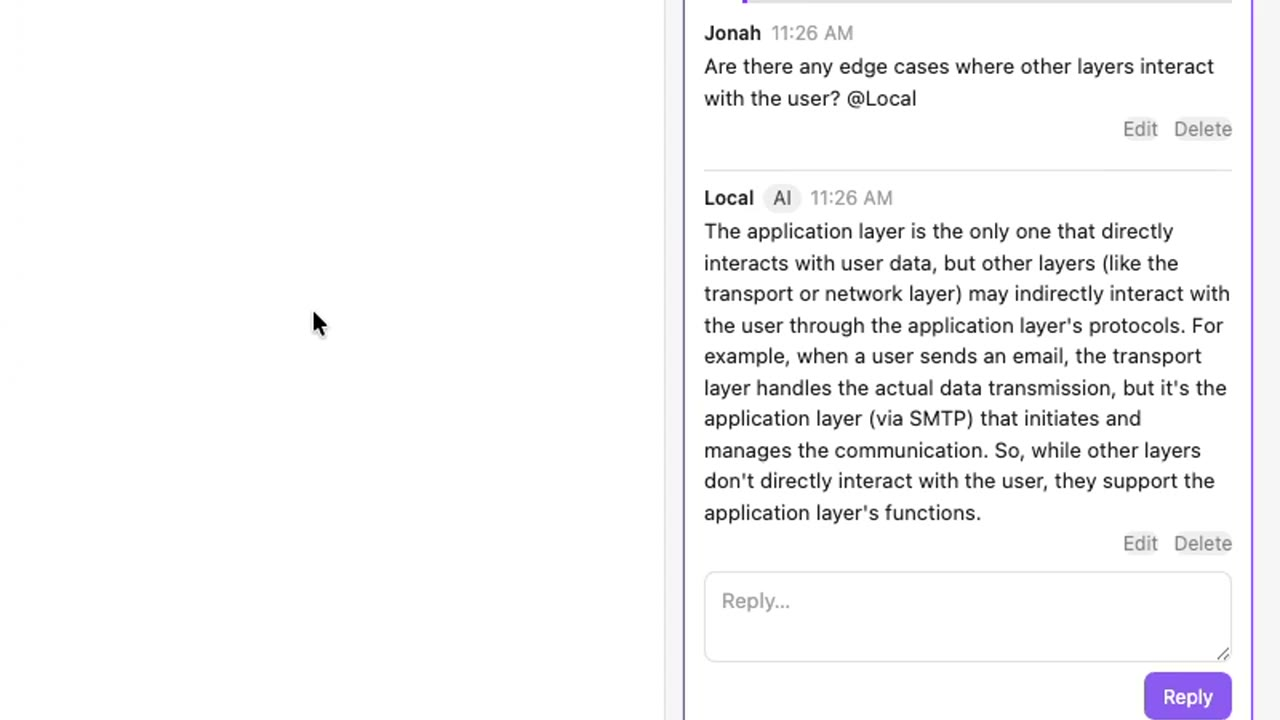
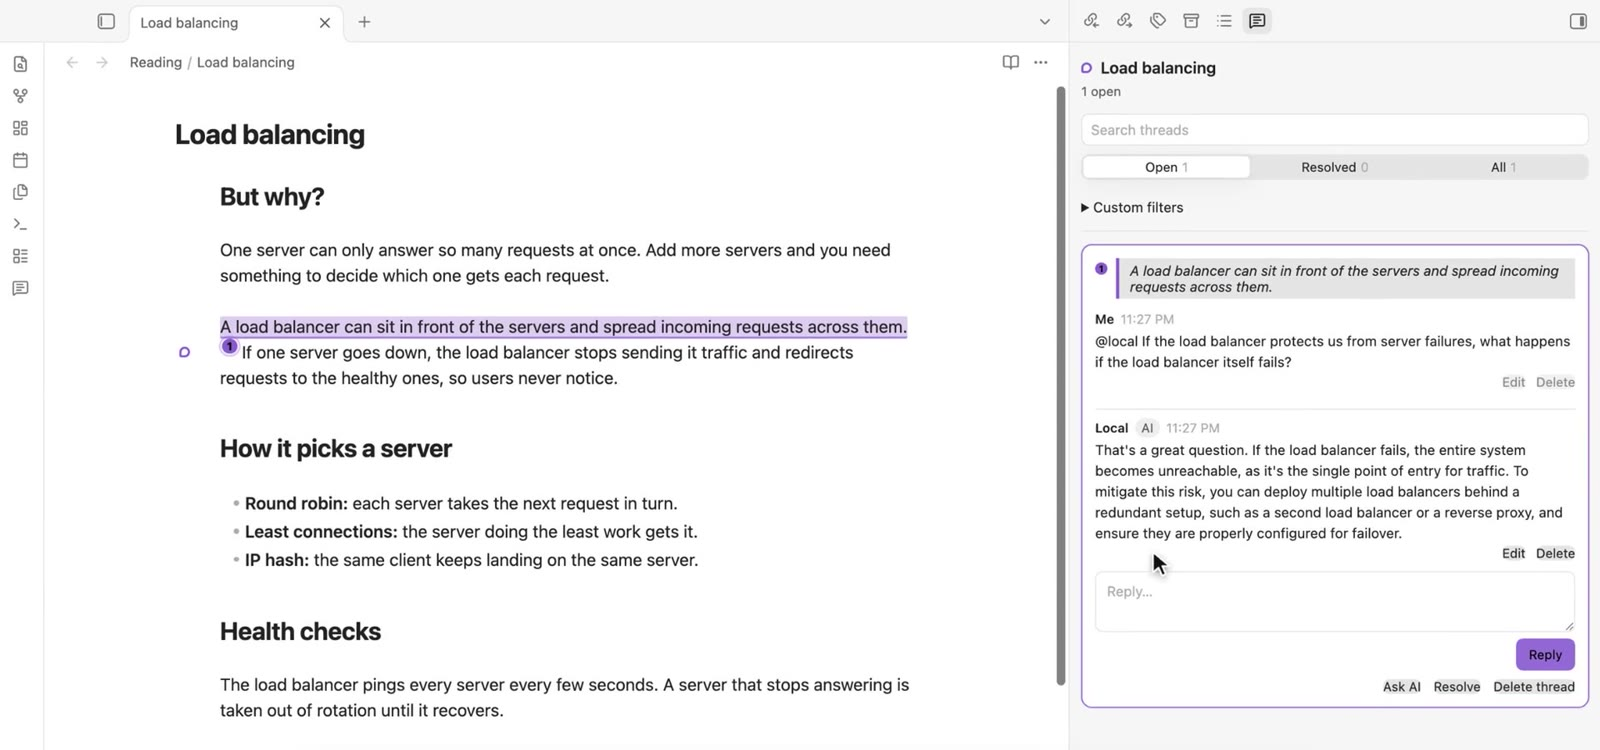
docs: README image shows the passage, its highlight and the thread together
A frame from the demo recording (synthetic note), with the caption bar
cropped, replaces the mostly blank poster. From the Codex review.

diff --git a/README.md b/README.md
@@ -9,7 +9,7 @@
 
 Comment threads for Obsidian, anchored to the text and images in your notes, with optional AI replies that can run entirely on your own computer.
 
-[![Threadglyph demo: a comment thread beside a note, with a reply from a local model](docs/media/demo-poster.jpg)](https://www.jonahbostrom.com/demos/threadglyph-demo.mp4)
+[![Threadglyph in Obsidian: a highlighted passage numbered 1, and its thread in the side panel with a question and a reply from a local model](docs/media/demo-poster.jpg)](https://www.jonahbostrom.com/demos/threadglyph-demo.mp4)
 
 *Click the image to watch the demo (50 s): highlight a passage, ask a local model with `@Local`, and the answer lands in the thread.*
 
